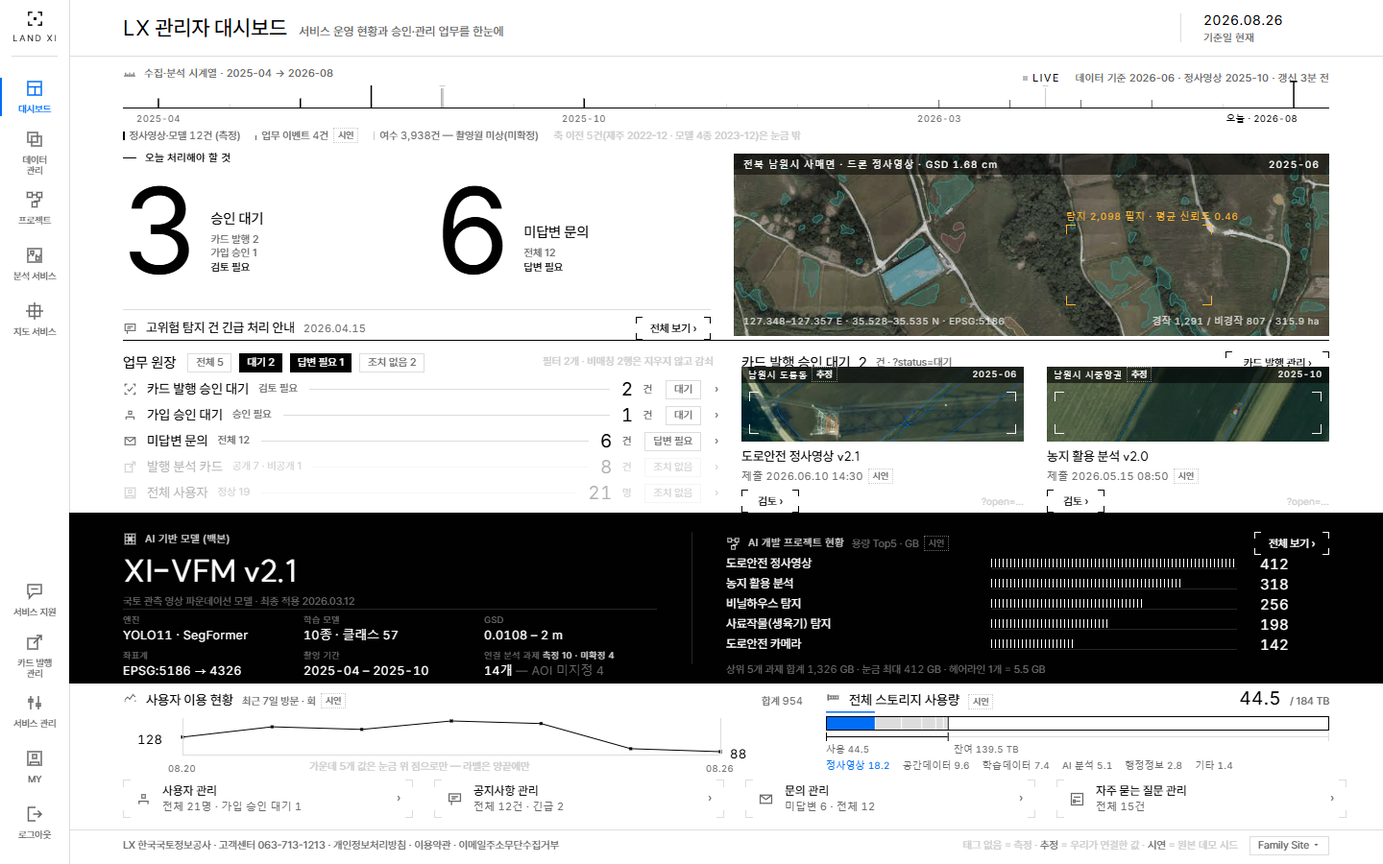
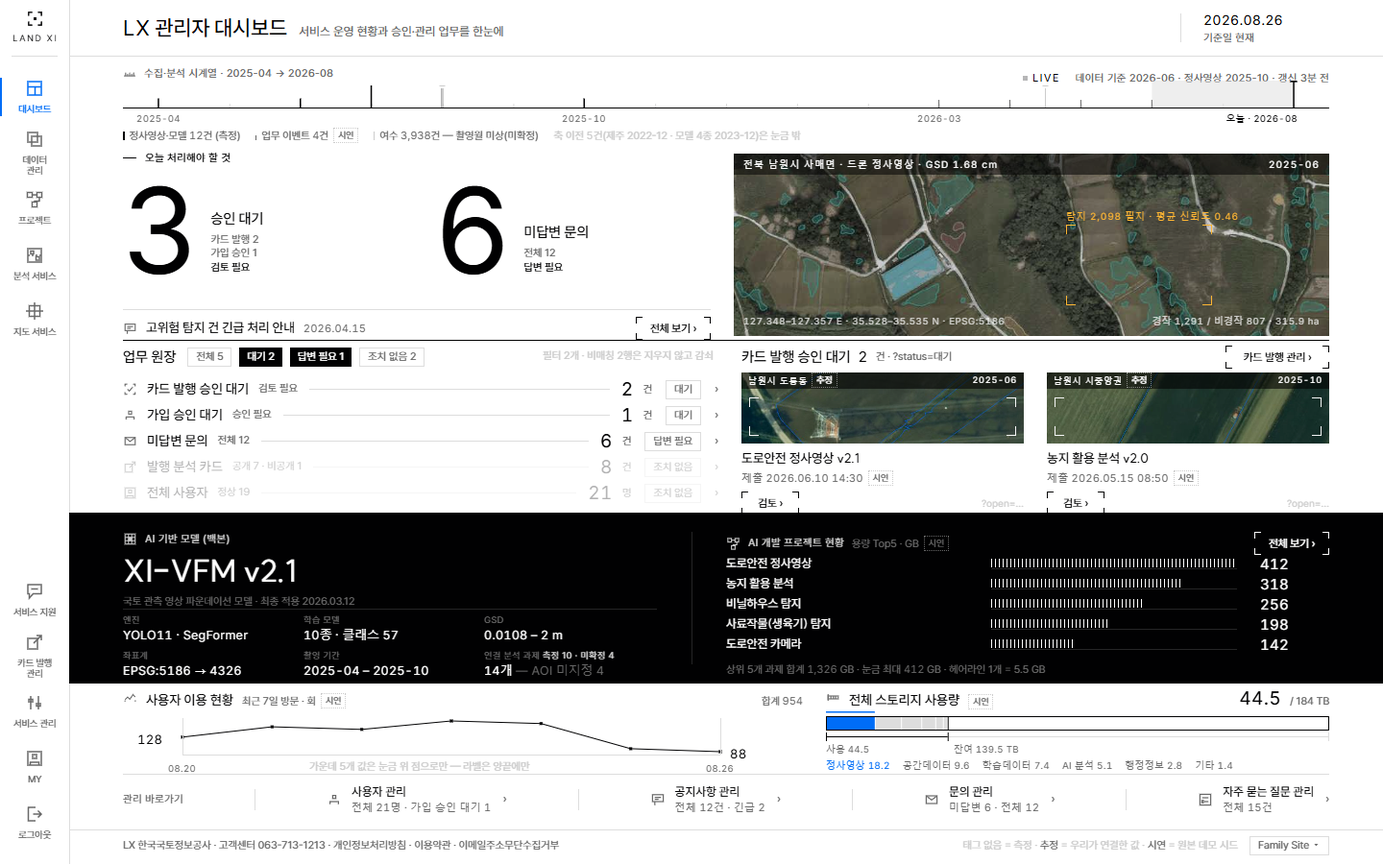
feat(design-canvas): B4 대시보드 마감 — Craft 비평 반영, 캔버스 3행 등재 + NOTES §11
Craft 비평에서 잡은 둘을 고쳤다. (1) 하단 관리 4칸이 원본 관리 타일과 같은
균일 타일 그리드였다 — 내용이 폭을 정하는 한 줄 CHIP-RAIL 로 교체.
(2) 스캔 스트립이 장식으로 읽혔다 — '데이터 기준 2026-06 → 오늘' 구간 밴드를
깔아 컨트롤임을 보이게 했다. 감쇠는 색 교체가 아니라 불투명도로 바꿔
팔레트에 제4의 회색이 생기지 않게 했다.

canvas.json 3행 x=3120 y=2040 에 등재. NOTES §11 에 장치 17종의 출처 리포트와
3-비평가 게이트(액센트 2역할 해석 · 검정 판 팔레트 반전 규칙 명시)를 적었다.

Claude-Session: https://claude.ai/code/session_01WM9MJXSpdbCfwY8af3obk9

diff --git a/design-canvas/v2/B4-Dashboard.dc.html b/design-canvas/v2/B4-Dashboard.dc.html
@@ -115,7 +115,7 @@ body{margin:0;background:#FFFFFF;color:#010102;font-family:'Pretendard','SUIT',s
 <div style="position:absolute;left:744px;top:70px;width:640px;text-align:right;line-height:1.2">
 <span class="live-dot" style="display:inline-block;width:5px;height:5px;background:#010102;vertical-align:1px;margin-right:5px"></span><span class="n" style="font-size:11px;color:#010102;letter-spacing:.12em">LIVE</span>
 <span class="lab" style="margin-left:12px">데이터 기준 2026-06 · 정사영상 2025-10 · 갱신 3분 전</span></div>
-<svg width="1440" height="900" viewBox="0 0 1440 900" style="position:absolute;left:0;top:0;pointer-events:none"><rect x="164.9" y="108" width="1" height="4" fill="#DDDDDD"/><rect x="238.8" y="108" width="1" height="4" fill="#DDDDDD"/><rect x="312.7" y="108" width="1" height="4" fill="#DDDDDD"/><rect x="386.6" y="108" width="1" height="4" fill="#DDDDDD"/><rect x="460.5" y="108" width="1" height="4" fill="#DDDDDD"/><rect x="534.4" y="108" width="1" height="4" fill="#DDDDDD"/><rect x="608.2" y="108" width="1" height="4" fill="#DDDDDD"/><rect x="682.1" y="108" width="1" height="4" fill="#DDDDDD"/><rect x="756.0" y="108" width="1" height="4" fill="#DDDDDD"/><rect x="829.9" y="108" width="1" height="4" fill="#DDDDDD"/><rect x="903.8" y="108" width="1" height="4" fill="#DDDDDD"/><rect x="977.6" y="108" width="1" height="4" fill="#DDDDDD"/><rect x="1051.5" y="108" width="1" height="4" fill="#DDDDDD"/><rect x="1125.4" y="108" width="1" height="4" fill="#DDDDDD"/><rect x="1199.3" y="108" width="1" height="4" fill="#DDDDDD"/><rect x="1273.2" y="108" width="1" height="4" fill="#DDDDDD"/><rect x="1347.1" y="108" width="1" height="4" fill="#DDDDDD"/><rect x="164.2" y="102.6" width="1.5" height="9.4" fill="#010102"/><rect x="312.0" y="102.6" width="1.5" height="9.4" fill="#010102"/><rect x="385.8" y="89.0" width="1.5" height="23.0" fill="#010102"/><rect x="459.7" y="92.4" width="1.5" height="19.6" fill="#010102"/><rect x="607.5" y="102.6" width="1.5" height="9.4" fill="#010102"/><rect x="977.1" y="104" width="1" height="8" fill="#686868"/><rect x="1051.0" y="104" width="1" height="8" fill="#686868"/><rect x="1124.9" y="104" width="1" height="8" fill="#686868"/><rect x="1198.8" y="104" width="1" height="8" fill="#686868"/><rect x="460.0" y="92" width="1" height="20" fill="#CCCCCC"/><rect x="457.5" y="89" width="6" height="1" fill="#CCCCCC"/><rect x="1088.0" y="92" width="1" height="20" fill="#CCCCCC"/><rect x="1085.5" y="89" width="6" height="1" fill="#CCCCCC"/><rect x="1346.3" y="84" width="1.5" height="28" fill="#010102"/><rect x="1343.6" y="84" width="7" height="1.5" fill="#010102"/><rect x="128" y="112" width="1256" height="1" fill="#010102"/><polyline points="190.0,767.8 283.3,757.1 376.7,759.8 470.0,751.0 563.3,753.7 656.7,779.9 750.0,783.0" fill="none" stroke="#010102" stroke-width="1"/><rect x="188.5" y="766.3" width="3" height="3" fill="#010102"/><rect x="281.8" y="755.6" width="3" height="3" fill="#010102"/><rect x="375.2" y="758.3" width="3" height="3" fill="#010102"/><rect x="468.5" y="749.5" width="3" height="3" fill="#010102"/><rect x="561.8" y="752.2" width="3" height="3" fill="#010102"/><rect x="655.2" y="778.4" width="3" height="3" fill="#010102"/><rect x="748.5" y="781.5" width="3" height="3" fill="#010102"/><rect x="190" y="748" width="1" height="38" fill="#DDDDDD"/><rect x="750.0" y="748" width="1" height="38" fill="#DDDDDD"/><rect x="190" y="786" width="560" height="1" fill="#DDDDDD"/><rect x="860.00" y="746" width="50.83" height="15" fill="#006DF7"/><rect x="911.83" y="746" width="26.34" height="15" fill="#DDDDDD"/><rect x="939.17" y="746" width="20.07" height="15" fill="#DDDDDD"/><rect x="960.24" y="746" width="13.52" height="15" fill="#DDDDDD"/><rect x="974.77" y="746" width="6.97" height="15" fill="#DDDDDD"/><rect x="982.74" y="746" width="2.99" height="15" fill="#DDDDDD"/><rect x="860" y="741" width="50.83" height="1.5" fill="#006DF7"/><rect x="860.5" y="746.5" width="523" height="14" fill="none" stroke="#010102" stroke-width="1"/><rect x="986.73" y="746" width="1" height="15" fill="#010102"/><rect x="860" y="767" width="126.73" height="1" fill="#010102"/><rect x="987.73" y="767" width="396.27" height="1" fill="#DDDDDD"/><rect x="860" y="763" width="1" height="9" fill="#010102"/><rect x="986.73" y="763" width="1" height="9" fill="#010102"/><rect x="1383" y="763" width="1" height="9" fill="#DDDDDD"/></svg>
+<svg width="1440" height="900" viewBox="0 0 1440 900" style="position:absolute;left:0;top:0;pointer-events:none"><rect x="1199.3" y="84" width="147.8" height="28" fill="#DDDDDD" opacity=".5"/><rect x="164.9" y="108" width="1" height="4" fill="#DDDDDD"/><rect x="238.8" y="108" width="1" height="4" fill="#DDDDDD"/><rect x="312.7" y="108" width="1" height="4" fill="#DDDDDD"/><rect x="386.6" y="108" width="1" height="4" fill="#DDDDDD"/><rect x="460.5" y="108" width="1" height="4" fill="#DDDDDD"/><rect x="534.4" y="108" width="1" height="4" fill="#DDDDDD"/><rect x="608.2" y="108" width="1" height="4" fill="#DDDDDD"/><rect x="682.1" y="108" width="1" height="4" fill="#DDDDDD"/><rect x="756.0" y="108" width="1" height="4" fill="#DDDDDD"/><rect x="829.9" y="108" width="1" height="4" fill="#DDDDDD"/><rect x="903.8" y="108" width="1" height="4" fill="#DDDDDD"/><rect x="977.6" y="108" width="1" height="4" fill="#DDDDDD"/><rect x="1051.5" y="108" width="1" height="4" fill="#DDDDDD"/><rect x="1125.4" y="108" width="1" height="4" fill="#DDDDDD"/><rect x="1199.3" y="108" width="1" height="4" fill="#DDDDDD"/><rect x="1273.2" y="108" width="1" height="4" fill="#DDDDDD"/><rect x="1347.1" y="108" width="1" height="4" fill="#DDDDDD"/><rect x="164.2" y="102.6" width="1.5" height="9.4" fill="#010102"/><rect x="312.0" y="102.6" width="1.5" height="9.4" fill="#010102"/><rect x="385.8" y="89.0" width="1.5" height="23.0" fill="#010102"/><rect x="459.7" y="92.4" width="1.5" height="19.6" fill="#010102"/><rect x="607.5" y="102.6" width="1.5" height="9.4" fill="#010102"/><rect x="977.1" y="104" width="1" height="8" fill="#686868"/><rect x="1051.0" y="104" width="1" height="8" fill="#686868"/><rect x="1124.9" y="104" width="1" height="8" fill="#686868"/><rect x="1198.8" y="104" width="1" height="8" fill="#686868"/><rect x="460.0" y="92" width="1" height="20" fill="#CCCCCC"/><rect x="457.5" y="89" width="6" height="1" fill="#CCCCCC"/><rect x="1088.0" y="92" width="1" height="20" fill="#CCCCCC"/><rect x="1085.5" y="89" width="6" height="1" fill="#CCCCCC"/><rect x="1346.3" y="84" width="1.5" height="28" fill="#010102"/><rect x="1343.6" y="84" width="7" height="1.5" fill="#010102"/><rect x="128" y="112" width="1256" height="1" fill="#010102"/><polyline points="190.0,767.8 283.3,757.1 376.7,759.8 470.0,751.0 563.3,753.7 656.7,779.9 750.0,783.0" fill="none" stroke="#010102" stroke-width="1"/><rect x="188.5" y="766.3" width="3" height="3" fill="#010102"/><rect x="281.8" y="755.6" width="3" height="3" fill="#010102"/><rect x="375.2" y="758.3" width="3" height="3" fill="#010102"/><rect x="468.5" y="749.5" width="3" height="3" fill="#010102"/><rect x="561.8" y="752.2" width="3" height="3" fill="#010102"/><rect x="655.2" y="778.4" width="3" height="3" fill="#010102"/><rect x="748.5" y="781.5" width="3" height="3" fill="#010102"/><rect x="190" y="748" width="1" height="38" fill="#DDDDDD"/><rect x="750.0" y="748" width="1" height="38" fill="#DDDDDD"/><rect x="190" y="786" width="560" height="1" fill="#DDDDDD"/><rect x="860.00" y="746" width="50.83" height="15" fill="#006DF7"/><rect x="911.83" y="746" width="26.34" height="15" fill="#DDDDDD"/><rect x="939.17" y="746" width="20.07" height="15" fill="#DDDDDD"/><rect x="960.24" y="746" width="13.52" height="15" fill="#DDDDDD"/><rect x="974.77" y="746" width="6.97" height="15" fill="#DDDDDD"/><rect x="982.74" y="746" width="2.99" height="15" fill="#DDDDDD"/><rect x="860" y="741" width="50.83" height="1.5" fill="#006DF7"/><rect x="860.5" y="746.5" width="523" height="14" fill="none" stroke="#010102" stroke-width="1"/><rect x="986.73" y="746" width="1" height="15" fill="#010102"/><rect x="860" y="767" width="126.73" height="1" fill="#010102"/><rect x="987.73" y="767" width="396.27" height="1" fill="#DDDDDD"/><rect x="860" y="763" width="1" height="9" fill="#010102"/><rect x="986.73" y="763" width="1" height="9" fill="#010102"/><rect x="1383" y="763" width="1" height="9" fill="#DDDDDD"/></svg>
 <div class="n" style="position:absolute;left:131px;top:116px;width:68px;text-align:center;white-space:nowrap;font-size:9.5px;color:#686868;letter-spacing:.04em">2025-04</div><div class="n" style="position:absolute;left:574px;top:116px;width:68px;text-align:center;white-space:nowrap;font-size:9.5px;color:#686868;letter-spacing:.04em">2025-10</div><div class="n" style="position:absolute;left:944px;top:116px;width:68px;text-align:center;white-space:nowrap;font-size:9.5px;color:#686868;letter-spacing:.04em">2026-03</div><div class="n" style="position:absolute;left:1251px;top:116px;width:100px;text-align:right;white-space:nowrap;font-size:9.5px;color:#010102;letter-spacing:.04em">오늘 · 2026-08</div>
 <div style="position:absolute;left:128px;top:133px;display:flex;gap:16px;align-items:center">
 <div class="mic"><span style="display:inline-block;width:1.5px;height:9px;background:#010102;vertical-align:-1px;margin-right:5px"></span>정사영상·모델 <span class="n">12</span>건 (측정)</div>
@@ -166,10 +166,10 @@ body{margin:0;background:#FFFFFF;color:#010102;font-family:'Pretendard','SUIT',s
 <!-- ══ LEDGER — 상태 칩이 비매칭 행을 감쇠시킨다 (Palantir P1) ══ -->
 <div style="position:absolute;left:128px;top:354px;width:1256px;height:1px;background:#010102"></div>
 
-<div style="position:absolute;left:128px;top:366px;display:flex;align-items:center;gap:8px">
+<div style="position:absolute;left:128px;top:360px;display:flex;align-items:center;gap:8px">
 <div class="d" style="font-size:15px;margin-right:4px">업무 원장</div>
 <div class="chip">전체 5</div><div class="chip-on">대기 2</div><div class="chip-on">답변 필요 1</div><div class="chip">조치 없음 2</div></div>
-<div class="mic" style="position:absolute;left:565px;top:370px;color:#CCCCCC">필터 2개 · 비매칭 2행은 지우지 않고 감쇠</div>
+<div class="mic" style="position:absolute;left:565px;top:364px;color:#CCCCCC">필터 2개 · 비매칭 2행은 지우지 않고 감쇠</div>
 
 
 <div style="position:absolute;left:128px;top:392px;width:620px;height:27px;display:flex;align-items:center;gap:10px">
@@ -223,15 +223,15 @@ body{margin:0;background:#FFFFFF;color:#010102;font-family:'Pretendard','SUIT',s
 <div style="font-size:12px;color:#686868;width:8px;text-align:right">›</div></div>
 
 <!-- ══ B13 — 텍스트 행이 아니라 이미지 우선 액자 (Roboflow §1-1) ══ -->
-<div style="position:absolute;left:772px;top:366px;width:612px;display:flex;align-items:center;gap:8px">
+<div style="position:absolute;left:772px;top:360px;width:612px;display:flex;align-items:center;gap:8px">
 <div class="d" style="font-size:15px">카드 발행 승인 대기</div>
 <div class="n" style="font-size:15px;letter-spacing:.02em">2</div><div class="mic">건 · ?status=대기</div>
 <div style="flex:1"></div>
 <span class="cta" style="width:108px">카드 발행 관리 ›<i></i><i></i><i></i><i></i></span></div>
 
 
-<div style="position:absolute;left:772px;top:382px;width:294px;height:142px">
-  <div style="position:relative;width:294px;height:78px;overflow:hidden;background:#010102">
+<div style="position:absolute;left:772px;top:388px;width:294px;height:140px">
+  <div style="position:relative;width:294px;height:74px;overflow:hidden;background:#010102">
     <img src="../../../landxi/assets/proto/crops/namwon-farmland-2025/1.jpg" alt="" style="width:100%;height:100%;object-fit:cover;object-position:38% 74%;display:block;filter:saturate(1) contrast(1.16) brightness(1)">
     <div style="position:absolute;left:0;top:0;width:294px;height:17px;background:rgba(1,1,2,.6);display:flex;align-items:center;justify-content:space-between;padding:0 7px">
       <div class="n" style="font-size:9px;color:#FFFFFF;letter-spacing:.09em">남원시 도통동<span class="tag" style="border-color:rgba(255,255,255,.45);color:#FFFFFF;margin-left:4px">추정</span></div>
@@ -248,8 +248,8 @@ body{margin:0;background:#FFFFFF;color:#010102;font-family:'Pretendard','SUIT',s
     <div class="mic n" style="color:#CCCCCC;font-size:10px">?open=…</div></div>
 </div>
 
-<div style="position:absolute;left:1090px;top:382px;width:294px;height:142px">
-  <div style="position:relative;width:294px;height:78px;overflow:hidden;background:#010102">
+<div style="position:absolute;left:1090px;top:388px;width:294px;height:140px">
+  <div style="position:relative;width:294px;height:74px;overflow:hidden;background:#010102">
     <img src="../../../landxi/assets/proto/crops/namwon-farmland-2025/6.jpg" alt="" style="width:100%;height:100%;object-fit:cover;object-position:50% 46%;display:block;filter:saturate(1) contrast(1.16) brightness(1)">
     <div style="position:absolute;left:0;top:0;width:294px;height:17px;background:rgba(1,1,2,.6);display:flex;align-items:center;justify-content:space-between;padding:0 7px">
       <div class="n" style="font-size:9px;color:#FFFFFF;letter-spacing:.09em">남원시 시중앙권<span class="tag" style="border-color:rgba(255,255,255,.45);color:#FFFFFF;margin-left:4px">추정</span></div>
@@ -340,47 +340,39 @@ body{margin:0;background:#FFFFFF;color:#010102;font-family:'Pretendard','SUIT',s
 <div class="n" style="font-size:10px;letter-spacing:.02em;color:#006DF7;white-space:nowrap">정사영상 18.2</div><div class="n" style="font-size:10px;letter-spacing:.02em;color:#686868;white-space:nowrap">공간데이터 9.6</div><div class="n" style="font-size:10px;letter-spacing:.02em;color:#686868;white-space:nowrap">학습데이터 7.4</div><div class="n" style="font-size:10px;letter-spacing:.02em;color:#686868;white-space:nowrap">AI 분석 5.1</div><div class="n" style="font-size:10px;letter-spacing:.02em;color:#686868;white-space:nowrap">행정정보 2.8</div><div class="n" style="font-size:10px;letter-spacing:.02em;color:#686868;white-space:nowrap">기타 1.4</div>
 </div>
 
-<!-- ══ CHIP-RAIL — B14 사용자·콘텐츠 관리 타일 4 (코너 브래킷) ══ -->
+<!-- ══ CHIP-RAIL — B14 사용자·콘텐츠 관리 4. 균일 타일 4칸이 아니라 내용이 폭을 정하는 한 줄 레일 ══ -->
+<div style="position:absolute;left:128px;top:806px;width:1256px;height:1px;background:#DDDDDD"></div>
+<div style="position:absolute;left:128px;top:816px;width:1256px;height:34px;display:flex;align-items:center;justify-content:space-between">
+<div class="lab" style="flex:none">관리 바로가기</div>
+<div style="width:1px;height:22px;background:#DDDDDD;flex:none"></div>
 
-<div style="position:absolute;left:128px;top:812px;width:302px;height:40px;display:flex;align-items:center;gap:11px;padding:0 13px">
-  <div class="bk s" style="left:0;top:0;border-left:1px solid #DDDDDD;border-top:1px solid #DDDDDD"></div>
-  <div class="bk s" style="right:0;top:0;border-right:1px solid #DDDDDD;border-top:1px solid #DDDDDD"></div>
-  <div class="bk s" style="left:0;bottom:0;border-left:1px solid #DDDDDD;border-bottom:1px solid #DDDDDD"></div>
-  <div class="bk s" style="right:0;bottom:0;border-right:1px solid #DDDDDD;border-bottom:1px solid #DDDDDD"></div>
-  <svg style="color:#686868;flex:none" xmlns="http://www.w3.org/2000/svg" width="17" height="17" viewBox="0 0 20 20" fill="none" stroke="currentColor" stroke-width="1.5" stroke-linecap="butt" stroke-linejoin="miter"><path d="M8 4.5h4v4H8z"/><path d="M4.5 16v-3.5h11V16"/></svg>
-  <div><div class="d" style="font-size:12.5px;line-height:1.2">사용자 관리</div>
-  <div class="mic n" style="letter-spacing:.02em;margin-top:2px">전체 21명 · 가입 승인 대기 1</div></div>
-  <div style="margin-left:auto;font-size:12px;color:#686868">›</div></div>
+<div style="display:flex;align-items:center;gap:10px">
+  <svg style="color:#686868;flex:none" xmlns="http://www.w3.org/2000/svg" width="16" height="16" viewBox="0 0 20 20" fill="none" stroke="currentColor" stroke-width="1.5" stroke-linecap="butt" stroke-linejoin="miter"><path d="M8 4.5h4v4H8z"/><path d="M4.5 16v-3.5h11V16"/></svg>
+  <div><div class="d" style="font-size:12.5px;line-height:1.2;white-space:nowrap">사용자 관리</div>
+  <div class="mic n" style="letter-spacing:.02em;margin-top:2px;white-space:nowrap">전체 21명 · 가입 승인 대기 1</div></div>
+  <div style="font-size:12px;color:#686868;margin-left:2px">›</div></div>
+<div style="width:1px;height:22px;background:#DDDDDD;flex:none"></div>
 
-<div style="position:absolute;left:452px;top:812px;width:302px;height:40px;display:flex;align-items:center;gap:11px;padding:0 13px">
-  <div class="bk s" style="left:0;top:0;border-left:1px solid #DDDDDD;border-top:1px solid #DDDDDD"></div>
-  <div class="bk s" style="right:0;top:0;border-right:1px solid #DDDDDD;border-top:1px solid #DDDDDD"></div>
-  <div class="bk s" style="left:0;bottom:0;border-left:1px solid #DDDDDD;border-bottom:1px solid #DDDDDD"></div>
-  <div class="bk s" style="right:0;bottom:0;border-right:1px solid #DDDDDD;border-bottom:1px solid #DDDDDD"></div>
-  <svg style="color:#686868;flex:none" xmlns="http://www.w3.org/2000/svg" width="17" height="17" viewBox="0 0 20 20" fill="none" stroke="currentColor" stroke-width="1.5" stroke-linecap="butt" stroke-linejoin="miter"><path d="M3 3.5h14v9H3z"/><path d="M6 12.5V17"/><path d="M6 7h8M6 9.5h5"/></svg>
-  <div><div class="d" style="font-size:12.5px;line-height:1.2">공지사항 관리</div>
-  <div class="mic n" style="letter-spacing:.02em;margin-top:2px">전체 12건 · 긴급 2</div></div>
-  <div style="margin-left:auto;font-size:12px;color:#686868">›</div></div>
+<div style="display:flex;align-items:center;gap:10px">
+  <svg style="color:#686868;flex:none" xmlns="http://www.w3.org/2000/svg" width="16" height="16" viewBox="0 0 20 20" fill="none" stroke="currentColor" stroke-width="1.5" stroke-linecap="butt" stroke-linejoin="miter"><path d="M3 3.5h14v9H3z"/><path d="M6 12.5V17"/><path d="M6 7h8M6 9.5h5"/></svg>
+  <div><div class="d" style="font-size:12.5px;line-height:1.2;white-space:nowrap">공지사항 관리</div>
+  <div class="mic n" style="letter-spacing:.02em;margin-top:2px;white-space:nowrap">전체 12건 · 긴급 2</div></div>
+  <div style="font-size:12px;color:#686868;margin-left:2px">›</div></div>
+<div style="width:1px;height:22px;background:#DDDDDD;flex:none"></div>
 
-<div style="position:absolute;left:776px;top:812px;width:302px;height:40px;display:flex;align-items:center;gap:11px;padding:0 13px">
-  <div class="bk s" style="left:0;top:0;border-left:1px solid #DDDDDD;border-top:1px solid #DDDDDD"></div>
-  <div class="bk s" style="right:0;top:0;border-right:1px solid #DDDDDD;border-top:1px solid #DDDDDD"></div>
-  <div class="bk s" style="left:0;bottom:0;border-left:1px solid #DDDDDD;border-bottom:1px solid #DDDDDD"></div>
-  <div class="bk s" style="right:0;bottom:0;border-right:1px solid #DDDDDD;border-bottom:1px solid #DDDDDD"></div>
-  <svg style="color:#686868;flex:none" xmlns="http://www.w3.org/2000/svg" width="17" height="17" viewBox="0 0 20 20" fill="none" stroke="currentColor" stroke-width="1.5" stroke-linecap="butt" stroke-linejoin="miter"><path d="M3 5h14v10H3z"/><path d="m3 5 7 5.5L17 5"/></svg>
-  <div><div class="d" style="font-size:12.5px;line-height:1.2">문의 관리</div>
-  <div class="mic n" style="letter-spacing:.02em;margin-top:2px">미답변 6 · 전체 12</div></div>
-  <div style="margin-left:auto;font-size:12px;color:#686868">›</div></div>
+<div style="display:flex;align-items:center;gap:10px">
+  <svg style="color:#686868;flex:none" xmlns="http://www.w3.org/2000/svg" width="16" height="16" viewBox="0 0 20 20" fill="none" stroke="currentColor" stroke-width="1.5" stroke-linecap="butt" stroke-linejoin="miter"><path d="M3 5h14v10H3z"/><path d="m3 5 7 5.5L17 5"/></svg>
+  <div><div class="d" style="font-size:12.5px;line-height:1.2;white-space:nowrap">문의 관리</div>
+  <div class="mic n" style="letter-spacing:.02em;margin-top:2px;white-space:nowrap">미답변 6 · 전체 12</div></div>
+  <div style="font-size:12px;color:#686868;margin-left:2px">›</div></div>
+<div style="width:1px;height:22px;background:#DDDDDD;flex:none"></div>
 
-<div style="position:absolute;left:1100px;top:812px;width:302px;height:40px;display:flex;align-items:center;gap:11px;padding:0 13px">
-  <div class="bk s" style="left:0;top:0;border-left:1px solid #DDDDDD;border-top:1px solid #DDDDDD"></div>
-  <div class="bk s" style="right:0;top:0;border-right:1px solid #DDDDDD;border-top:1px solid #DDDDDD"></div>
-  <div class="bk s" style="left:0;bottom:0;border-left:1px solid #DDDDDD;border-bottom:1px solid #DDDDDD"></div>
-  <div class="bk s" style="right:0;bottom:0;border-right:1px solid #DDDDDD;border-bottom:1px solid #DDDDDD"></div>
-  <svg style="color:#686868;flex:none" xmlns="http://www.w3.org/2000/svg" width="17" height="17" viewBox="0 0 20 20" fill="none" stroke="currentColor" stroke-width="1.5" stroke-linecap="butt" stroke-linejoin="miter"><path d="M3 3h14v14H3z"/><path d="M6 7.5h8M8.5 12.5h5.5"/><path d="M5.5 11h2v3h-2z"/></svg>
-  <div><div class="d" style="font-size:12.5px;line-height:1.2">자주 묻는 질문 관리</div>
-  <div class="mic n" style="letter-spacing:.02em;margin-top:2px">전체 15건</div></div>
-  <div style="margin-left:auto;font-size:12px;color:#686868">›</div></div>
+<div style="display:flex;align-items:center;gap:10px">
+  <svg style="color:#686868;flex:none" xmlns="http://www.w3.org/2000/svg" width="16" height="16" viewBox="0 0 20 20" fill="none" stroke="currentColor" stroke-width="1.5" stroke-linecap="butt" stroke-linejoin="miter"><path d="M3 3h14v14H3z"/><path d="M6 7.5h8M8.5 12.5h5.5"/><path d="M5.5 11h2v3h-2z"/></svg>
+  <div><div class="d" style="font-size:12.5px;line-height:1.2;white-space:nowrap">자주 묻는 질문 관리</div>
+  <div class="mic n" style="letter-spacing:.02em;margin-top:2px;white-space:nowrap">전체 15건</div></div>
+  <div style="font-size:12px;color:#686868;margin-left:2px">›</div></div>
+</div>
 
 <!-- ══ B15 · 푸터 + 콜로폰 ══ -->
 <div style="position:absolute;left:72px;top:864px;width:1368px;height:1px;background:#DDDDDD"></div>

diff --git a/design-canvas/v2/NOTES.md b/design-canvas/v2/NOTES.md
@@ -288,6 +288,68 @@
   첫눈에 들어오는 것이 **파이프라인 카운트 4개 + 124px 블랙 판 + 영상 프레임 행**이다.
   남은 유보 1: 좌열 확장 행(발행 폼)이 화면 아래쪽에서 밀도가 가장 높다 — 구현 단계에서 스크롤이 이 부담을 덜어 준다.
 
+
+## 11. `B4-Dashboard` — 대시보드 **전면 개편** (B3 반려에 대한 답)
+
+발주 원문: *"기존이랑 별반 다를 게 없다. … **아이콘이나 렌더링이 달라야** 한다. 벤치마킹 자산을 잘 활용해서 구현하라니깐 **아예 다 뜯어 고쳐!**"*
+B3(조용한 ArcGIS/Vercel 원장)은 원본 재스킨으로 읽혀 반려됐다. B4는 조판·아이콘·차트 형태를 전부 갈아엎고,
+**남긴 것은 기능(원본 위젯 12종 · 레일 11항목)과 `design/system.md`의 서체·색·그리드·모션뿐이다.**
+
+### 11.1 장치가 어디에 앉았는가 (전부 우리 조사 리포트 출처)
+
+| # | 장치 | 출처 | 화면에서의 위치 |
+|---|---|---|---|
+| 1 | **124px 통계 진술 밴드** (본문의 7.75배) | `2026-08-25-benchmark-vantor.md` §2.1 표 `.char 124px`, §5 "숫자를 표 밖으로" | 오프닝 좌반부 — `3` 승인 대기 / `6` 미답변 문의(둘 다 실값: B6 2 + B7 1, B8 6). 캡션은 숫자 오른쪽에 블록으로 |
+| 1 | **코너 브래킷 CTA** (채운 버튼 금지) | 같은 문서 §3.4 "버튼은 채워진 사각형이 아니라 코너 브래킷" | `.cta` 클래스 — 전체 보기 / 카드 발행 관리 / 검토 / 전체 보기(반전) 5곳. 원본의 파란 채움 버튼은 0개 |
+| 1 | **clip-path 줄 리빌** | 같은 문서 §4.3 `[data-line]{clip-path:inset(-5px 0px)}` | 마스트헤드·124px 숫자 두 블록에 `data-line` 마스크. 진입 시 루트 `.in` → `lineIn 600ms` / 판은 `plateIn 1000ms` (`cubic-bezier(.15,1,.3,1)`, §4 사다리 준수) |
+| 1 | **`장소 · 날짜` 캡션** | 같은 문서 §3.7 "지명(대문자) + 촬영일" | 증거 판 상단 `전북 남원시 사매면 · 드론 정사영상 · GSD 1.68 cm / 2025-06`, 승인 액자 상단 `남원시 도통동 · 2025-06` |
+| 1 | **명암 교대 — 단 하나의 검정 판** | 같은 문서 §3.3 컬러웨이 반전, §1 "요소를 빼서 밀도를" | 모델·프로젝트 블록을 `#010102`로 반전. 화면에서 유일한 검정 면이고, **이 판만 좌우 마진을 뚫는다(일탈 1회, x 72→1440)** |
+| 2 | **감쇠 필터 (dim, not delete)** | `2026-08-25-benchmark-palantir.md` §2 P1 | 업무 원장 상단 상태 칩 `전체 5 / 대기 2 / 답변 필요 1 / 조치 없음 2` — 앞 둘이 선택(잉크 칩). **비매칭 2행(발행 분석 카드 · 전체 사용자)은 지워지지 않고 `opacity:.3` + `pointer-events:none`으로 남는다.** 색을 갈아끼우지 않았으므로 팔레트에 새 값이 생기지 않는다 |
+| 2 | **아이콘 3단 상태 (muted → hover → selected)** | 같은 문서 §2 P12 · §1 표 "아이콘 기본 = 뮤티드 텍스트색" | 레일 11항목 전부 `#686868`, **선택된 대시보드 1개만 `#006DF7`** + 좌측 2px 액센트 바. 위젯 글리프도 전부 `#686868` |
+| 2 | **데이터 신선도 한 줄** | 같은 문서 §2 P13 | 마스트헤드 아래 우측 `● LIVE · 데이터 기준 2026-06 · 정사영상 2025-10 · 갱신 3분 전`. `new Date()`가 아니라 자산 기준시점 |
+| 3 | **원-바 시간 밀도 스캔 스트립** | `2026-08-26-yt-RDytbVDzMF4.md` §3 F1 · `2026-08-25-benchmark-all4land.md` §4 | 화면 최상단 1256px 한 줄. 무채 월 눈금 17 + 실측 틱(정사영상·모델 12건, 높이 = 그달 자산 수) + 업무 틱 4 + **점선 고스트 2(여수 3,938건, 촬영월 미상)** + 플레이헤드(오늘). `데이터 기준 2026-06 → 오늘` 구간은 무채 밴드 |
+| 3 | **`● LIVE` 스탬프** | `2026-08-25-bench-fui.md` §4 D12 · §2 "● LIVE + 실시각 3점 세트" | 신선도 줄 머리. **화면에서 움직이는 요소는 이 점 하나뿐**(`livePulse 6s`, §4 유휴 규칙) |
+| 3 | **락온 브래킷 + 3비트** | `bench-fui.md` §4 D9 · `benchmark-all4land.md` §3.1 | 증거 판 안쪽 앰버 브래킷 4개 + `탐지 2,098 필지 · 평균 신뢰도 0.46`. 비트: 브래킷 수렴 180ms → 두께 1→1.5px 확정 80ms → 라벨 슬라이드 120ms = **380ms**. 앰버 `#FFB633`은 이 한 곳에만 |
+| 4 | **프로비넌스 카드** | `2026-08-26-yt-RDytbVDzMF4.md` §3 F18 · `2026-08-26-yt-iyRYc9sVRsw.md` §4 D3 | 검정 판 좌반부 B9 백본 — 엔진 / 학습 모델 / GSD / 좌표계 / 촬영 기간 / 연결 분석 과제, 6칸. 값은 `models.js`·`imagery.js` 실측 |
+| 4 | **`측정 / 추정 / 미확정`** | `yt-iyRYc9sVRsw.md` §4 D5(graphify EXTRACTED/INFERRED/AMBIGUOUS) | 프로비넌스 `연결 분석 과제 측정 10 · 미확정 4`, 승인 액자 지역 라벨 `추정`, 스트립 범례 `(측정)`/`(미확정)`, 푸터 콜로폰에 정의 |
+| 4 | **형태가 서로 다른 스탯 타일 3종** | `yt-RDytbVDzMF4.md` §3 F8(균일 카드 그리드 금지) | ① 랭크드 헤어라인 틱(검정 판 위 B10) ② 스파크라인(B11) ③ 가로 스택(B12). 셋의 폭·높이·형태가 전부 다르고 같은 그리드에 놓이지 않았다 |
+| 5 | **이미지 우선 승인 액자** | `2026-08-25-benchmark-roboflow.md` §1-1 "결과 이미지가 UI의 1급 시민", §7 체크 1 | B13 2건이 텍스트 행이 아니라 **294×78 실크롭 액자**(`landxi/assets/proto/crops/namwon-farmland-2025/1.jpg`·`6.jpg`, 각 26KB·24KB)가 먼저 오고 제목·제출일시·`검토 ›`가 뒤따른다. 액자 안 헤어라인 오버레이 = 흰 코너 브래킷 4 + 상단 `장소 · 날짜` 바 |
+| 5 | **프로젝트 현황 = 데이터잉크 헤어라인 스택** | 같은 문서(ECharts 채운 막대 폐기) · `yt-RDytbVDzMF4.md` F8 | B10 Top5를 채운 막대가 아니라 **4px 간격 1px 흰 헤어라인 다발**로. `헤어라인 1개 = 5.5 GB`를 눈금 해설로 명시, 값 412/318/256/198/142는 우측 정렬 |
+| 6 | **신규 헤어라인 아이콘 22종** | 원본의 채운 아이콘 폐기 | `design-canvas/v2/icons/*.svg` — 20px 박스 · 라이브 4–16 · **4px 모듈 · 1.5px 단일 획 · butt cap · miter join · 곡선(원) 0**. 채움은 "선택된 하나"를 뜻하는 사각에만(`brand-lx`, `w-model` 커널). 레일 11(brand-lx + nav-×10) + 위젯 11(w-×11) |
+| 7 | **스파크라인 — 양끝만 주석** | `yt-RDytbVDzMF4.md` §3 F8 | B11 최근 7일 방문. 7개 실값 전부 점으로 찍히고 **라벨은 `128`과 `88` 양끝뿐**, 그 사실을 옆줄에서 자백 |
+| 7 | **가로 헤어라인 스택 — 도넛 폐기** | 같은 문서 · `benchmark-vantor.md` §1 "차트가 없다" | B12를 184 TB 실척 가로 스택으로. 세그먼트는 1px 흰 간격으로 분리, **색은 정사영상 1개만 `#006DF7`**, 나머지는 `#DDDDDD`. 아래에 사용 44.5 / 잔여 139.5 브래킷 + 6분류 라벨 |
+
+### 11.2 조판 (`design/system.md` §3 명명 레이아웃)
+
+`SPLIT-5050`(오프닝: 좌 124px 진술 + 상단 스캔 스트립 / 우 증거 판) → `LEDGER`(업무 원장 5행 ↔ 이미지 우선 승인 액자 2) →
+**반전 `EVIDENCE-PAIR`**(모델 프로비넌스 ↔ 프로젝트 랭크) → `CHIP-RAIL`(관리 바로가기 4).
+**일탈 1회 = 검정 반전 판만 좌우 콘텐츠 마진을 뚫고 레일 끝(72)에서 판면 끝(1440)까지 간다.**
+좌표: 레일 72 · 마스트헤드 58 · 콘텐츠 마진 56(x 128–1384) · 세로 밴드 `58 / 74 / 196 / 180 / 178 / 88 / 44 / 36`.
+
+### 11.3 3-비평가 게이트
+
+- **Brief ○** — A1–A11 레일 11항목, B1 제목·부제 / B2 기준일 / B3 공지+전체 보기 / B4 21명(정상 19·대기 1) / B5 8건(공개 7·비공개 1) /
+  B6 2건 / B7 1건 / B8 6건(전체 12) / B9 XI-VFM v2.1·2026.03.12·과제 14 / B10 Top5 412·318·256·198·142 / B11 7일 방문 /
+  B12 44.5 · 184 TB · 7분류 / B13 2건 + 행별 `검토` / B14 관리 4 / B15 푸터 / B16 딥링크(`?status=대기` · `?open=…` 화면에 노출).
+  원본에 없는 것(탭 UI · 커버리지 위젯 · 지도 · 승인 외 대기 큐)은 만들지 않았다. 담당자명·대기 일수·활동 기록은 전부 뺐다.
+- **System ○(단서 1)** — 서체 3종만 / 라운드·그림자·그라디언트·유리 grep **0건** / 팔레트 실측 `#FFFFFF #010102 #686868 #CCCCCC #DDDDDD` + `#FFB633` 9회(락온 1곳) + `#006DF7` **6회 = 2역할**.
+  §2는 액센트를 "한 번(2%) — 데이터·활성 상태에만"이라 적었는데 §2가 든 두 역할을 각각 1회씩 쓴 것으로 해석했다:
+  **활성 = 레일 선택 항목, 데이터 = 스토리지 정사영상 세그먼트.** 면적 합은 판면의 1% 미만이다. 이 해석은 명시해 둔다.
+  검정 판 안에서는 팔레트 값을 **뒤집어** 쓴다 — 잉크 `#FFFFFF`, 보조 `#CCCCCC`, 비활성 `#686868`, 헤어라인 `rgba(255,255,255,.14)`.
+  새 헥스를 들이지 않고 흰색의 알파만 쓴 것이며, Vantor의 컬러웨이 반전(§3.3)을 따른 것이다.
+- **Craft ○** — "원본과 나란히 놓으면 다른 제품인가": **그렇다.** KPI 카드 상자 0 · 도넛 0 · ECharts 채운 막대 0 · 파란 채움 버튼 0.
+  대신 124px 숫자 밴드, 화면을 가로지르는 시계열 눈금, 판면을 끊는 검정 띠, 사진이 먼저 오는 승인 액자, 새 계측 글리프가 있다.
+  1차 비평에서 잡아 고친 것 둘: (a) 하단 관리 4칸이 원본 관리 타일과 같은 **균일 타일 그리드**였다 → 내용이 폭을 정하는 한 줄 레일로 교체,
+  (b) 스캔 스트립이 장식으로 읽혔다 → `데이터 기준 2026-06 → 오늘` 구간 밴드를 깔아 컨트롤임을 보이게 했다.
+  남은 유보 2: 승인 액자 두 장의 톤이 비슷해 "서로 다른 증거" 감각이 얇다. 하단 세 밴드(스탯·레일·푸터)의 밀도가 상단보다 높다.
+
+### 11.4 콘텐츠 규칙
+
+수치는 `results.js`(남원 농지 2,098필지 · 경작 1,291 / 비경작 807 · 315.9 ha) · `imagery.js`(GSD 0.0108–1.69 cm, 촬영 2025-04–10, EPSG:5186) ·
+`models.js`(10종 · 학습 2025-07 5종 / 2025-08 1종 / 2023-12 4종)에서만 가져왔다. 원본 데모 시드(프로젝트 용량 · 7일 방문 · 스토리지 배분 · 제출 일시)는 `시연`,
+카드 ↔ 지역 연결은 `추정`, 태그 없음은 측정. 촬영월이 없는 여수 2건은 지어내지 않고 **미확정 고스트**로 눈금에 올렸고,
+축(2025-04–2026-08) 밖의 5건(제주 2022-12 · 모델 4종 2023-12)은 "눈금 밖"이라고 자백했다. 이름은 쓰지 않았다.
+
 ---
 
 ## 재현
